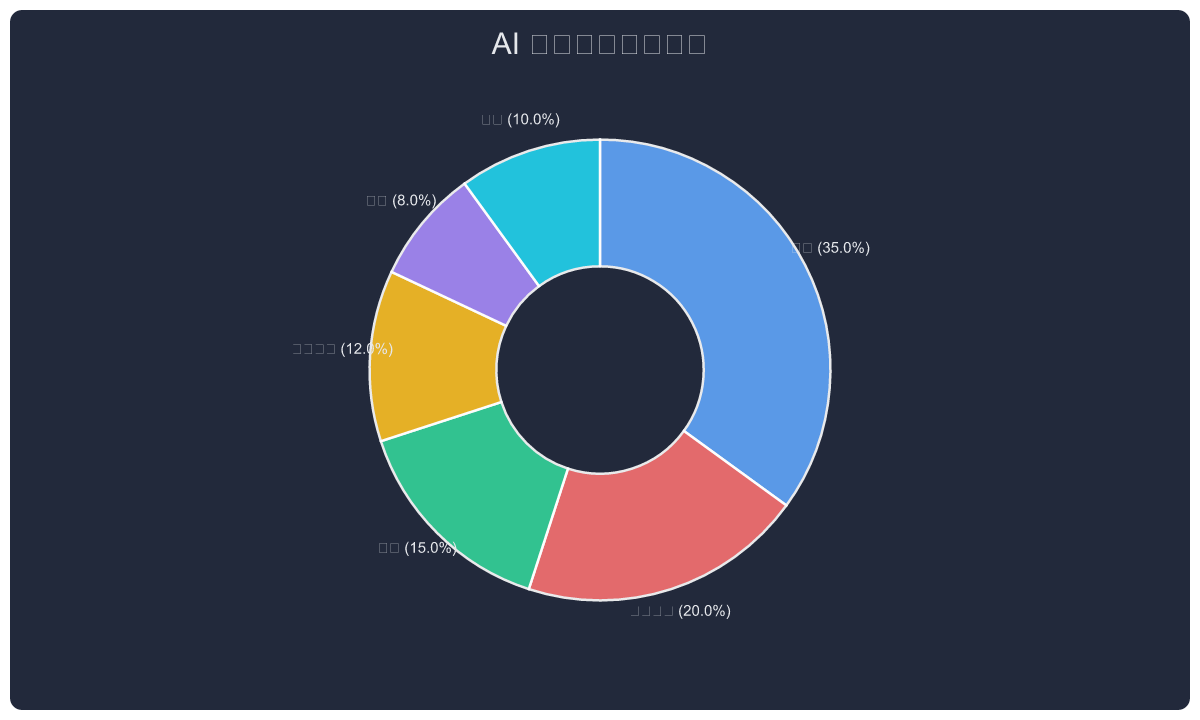
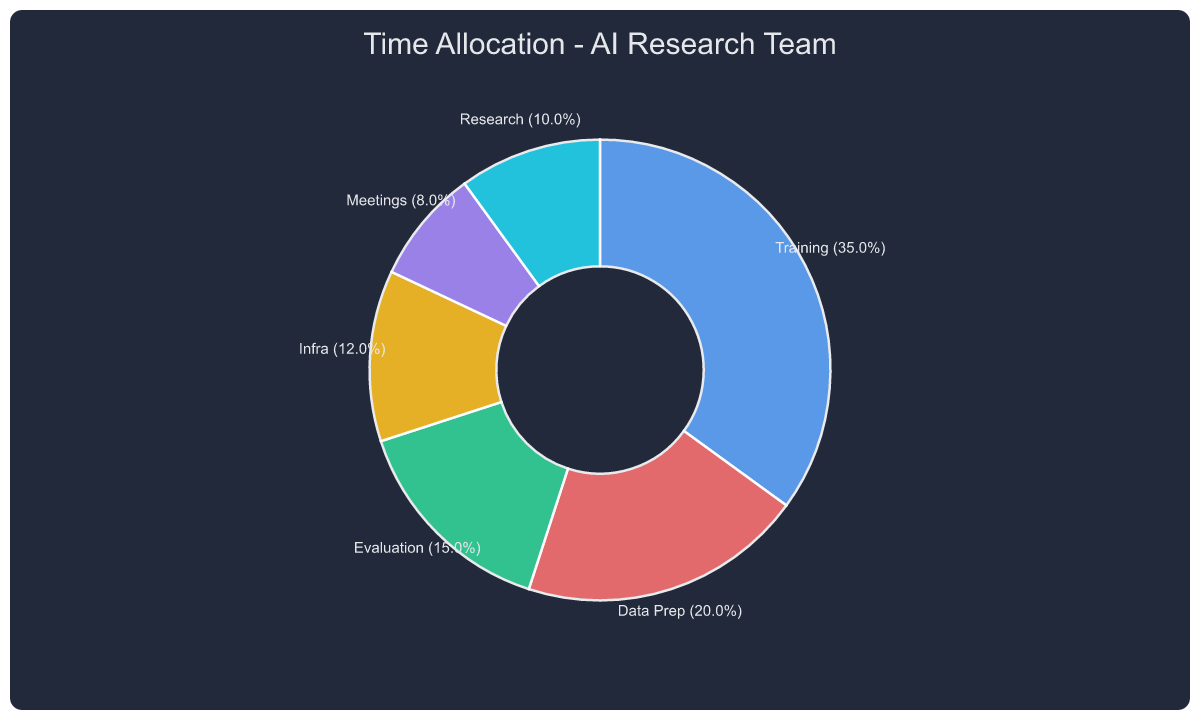
docs: dual showcase — EN titles for README, CN titles for README_CN
- docs/showcase/*.png: English titles (for README.md)
- docs/showcase/cn/*.png: Chinese titles (for README_CN.md)
- Fixed CJK rendering: font-family sans-serif + resvg sansSerifFamily=Heiti SC

diff --git a/src/render.ts b/src/render.ts
@@ -73,14 +73,16 @@ let fontCache: Uint8Array[] | null = null;
 async function loadFonts(env: Env): Promise<Uint8Array[]> {
   if (fontCache) return fontCache;
   const kv = env.SHORT_LINKS;
-  const [arialBuf, heitiBuf] = await Promise.all([
-    kv.get("font:arial-sans", "arrayBuffer"),
-    kv.get("font:heiti-sc-gb2312", "arrayBuffer"),
-  ]);
-  if (!arialBuf || !heitiBuf) {
-    throw new Error("Fonts not found in KV — upload font:arial-sans and font:heiti-sc-gb2312");
+  const heitiBuf = await kv.get("font:heiti-sc-gb2312", "arrayBuffer");
+  const arialBuf = await kv.get("font:arial-sans", "arrayBuffer");
+  const fonts: Uint8Array[] = [];
+  if (heitiBuf) fonts.push(new Uint8Array(heitiBuf));
+  if (arialBuf) fonts.push(new Uint8Array(arialBuf));
+  if (fonts.length === 0) {
+    throw new Error(`No fonts loaded from KV (heiti=${heitiBuf ? heitiBuf.byteLength : 'null'}, arial=${arialBuf ? arialBuf.byteLength : 'null'})`);
   }
-  fontCache = [new Uint8Array(arialBuf), new Uint8Array(heitiBuf)];
+  console.log(`Fonts loaded: heiti=${heitiBuf ? heitiBuf.byteLength : 'null'}, arial=${arialBuf ? arialBuf.byteLength : 'null'}, total=${fonts.length}`);
+  fontCache = fonts;
   return fontCache;
 }
 
@@ -995,8 +997,9 @@ export async function renderPngBase64(svg: string, env: Env): Promise<string> {
     background: "transparent",
     font: {
       fontBuffers,
-      defaultFontFamily: "Arial",
-      sansSerifFamily: "Arial",
+      defaultFontFamily: "Heiti SC",
+      sansSerifFamily: "Heiti SC",
+      serifFamily: "Heiti SC",
       defaultFontSize: DEFAULT_FONT_SIZE,
     },
   });
@@ -1013,8 +1016,9 @@ export async function renderPngResponse(svg: string, env: Env): Promise<Response
     background: "transparent",
     font: {
       fontBuffers,
-      defaultFontFamily: "Arial",
-      sansSerifFamily: "Arial",
+      defaultFontFamily: "Heiti SC",
+      sansSerifFamily: "Heiti SC",
+      serifFamily: "Heiti SC",
       defaultFontSize: DEFAULT_FONT_SIZE,
     },
   });

diff --git a/src/constants.ts b/src/constants.ts
@@ -31,7 +31,7 @@ export const MAX_3D_POINTS = 32;
 export const MAX_3D_LINE_POINTS = 96;
 export const DEFAULT_WIDTH = 1200;
 export const DEFAULT_HEIGHT = 720;
-export const DEFAULT_FONT_FAMILY = "'Heiti SC', Arial, sans-serif";
+export const DEFAULT_FONT_FAMILY = "sans-serif";
 export const DEFAULT_FONT_SIZE = 20;
 export const DEFAULT_BG = "safe-dark";
 export const DEFAULT_AXIS = "#111827";

diff --git a/README_CN.md b/README_CN.md
@@ -12,7 +12,7 @@
 
 sin、cos 及其叠加——自动检测 π 轴模式，y 轴 trig 专用刻度 `[-1, -0.5, 0, 0.5, 1]`，图例自动外置。
 
-![三角函数组合](docs/showcase/trig_composition.png)
+![三角函数组合](docs/showcase/cn/trig_composition.png)
 
 ```json
 {"tool": "plot_multi", "arguments": {
@@ -29,7 +29,7 @@ sin、cos 及其叠加——自动检测 π 轴模式，y 轴 trig 专用刻度 
 
 逐级叠加奇次谐波逼近方波。4 条曲线，自动 π 轴。
 
-![傅里叶逼近](docs/showcase/fourier_approx.png)
+![傅里叶逼近](docs/showcase/cn/fourier_approx.png)
 
 ```json
 {"tool": "plot_multi", "arguments": {
@@ -46,7 +46,7 @@ sin、cos 及其叠加——自动检测 π 轴模式，y 轴 trig 专用刻度 
 
 自动检测渐近线断点——无尖刺、无连接 ±∞ 的垂直线。引擎检测符号翻转 + 大 Δy 后自动断开路径。
 
-![tan 不连续](docs/showcase/tan_discontinuity.png)
+![tan 不连续](docs/showcase/cn/tan_discontinuity.png)
 
 ```json
 {"tool": "plot_png_link", "arguments": {
@@ -62,7 +62,7 @@ sin、cos 及其叠加——自动检测 π 轴模式，y 轴 trig 专用刻度 
 
 经典信号处理函数，x=0 处的可去奇点自动处理。
 
-![sinc 函数](docs/showcase/sinc_function.png)
+![sinc 函数](docs/showcase/cn/sinc_function.png)
 
 ```json
 {"tool": "plot_png_link", "arguments": {
@@ -78,7 +78,7 @@ sin、cos 及其叠加——自动检测 π 轴模式，y 轴 trig 专用刻度 
 
 x = ±1 处的垂直渐近线标注。引擎正确渲染极点间断，无伪影尖刺。
 
-![有理函数渐近线](docs/showcase/rational_asymptotes.png)
+![有理函数渐近线](docs/showcase/cn/rational_asymptotes.png)
 
 ```json
 {"tool": "plot_png_link", "arguments": {
@@ -98,7 +98,7 @@ x = ±1 处的垂直渐近线标注。引擎正确渲染极点间断，无伪影
 
 指数衰减 × 三角函数——自动规整刻度，15 个单位宽度内平滑渲染。
 
-![阻尼振荡](docs/showcase/damped_oscillation.png)
+![阻尼振荡](docs/showcase/cn/damped_oscillation.png)
 
 ```json
 {"tool": "plot_png_link", "arguments": {
@@ -114,7 +114,7 @@ x = ±1 处的垂直渐近线标注。引擎正确渲染极点间断，无伪影
 
 绝对值组合——非平凡波形与符号变化。
 
-![整流乘积](docs/showcase/absolute_value.png)
+![整流乘积](docs/showcase/cn/absolute_value.png)
 
 ```json
 {"tool": "plot_png_link", "arguments": {
@@ -130,7 +130,7 @@ x = ±1 处的垂直渐近线标注。引擎正确渲染极点间断，无伪影
 
 三个不同均值和方差的高斯分布——正态分布渲染。
 
-![高斯混合](docs/showcase/gaussian_mixture.png)
+![高斯混合](docs/showcase/cn/gaussian_mixture.png)
 
 ```json
 {"tool": "plot_multi", "arguments": {
@@ -147,7 +147,7 @@ x = ±1 处的垂直渐近线标注。引擎正确渲染极点间断，无伪影
 
 区域着色、点标记、垂直线、文字标签——四种标注类型一图打尽。
 
-![标注峰值](docs/showcase/annotated_peaks.png)
+![标注峰值](docs/showcase/cn/annotated_peaks.png)
 
 ```json
 {"tool": "plot_png_link", "arguments": {
@@ -170,7 +170,7 @@ x = ±1 处的垂直渐近线标注。引擎正确渲染极点间断，无伪影
 
 预测 vs 实际 vs 目标——散点图上非对称误差条，图例外置不遮挡数据。
 
-![业务误差条](docs/showcase/business_error_bars.png)
+![业务误差条](docs/showcase/cn/business_error_bars.png)
 
 ```json
 {"tool": "plot_series", "arguments": {
@@ -190,7 +190,7 @@ x = ±1 处的垂直渐近线标注。引擎正确渲染极点间断，无伪影
 
 3 个模型 × 4 项测试——每根柱子带独立误差条。
 
-![分组柱状](docs/showcase/grouped_bars.png)
+![分组柱状](docs/showcase/cn/grouped_bars.png)
 
 ```json
 {"tool": "plot_series", "arguments": {
@@ -211,7 +211,7 @@ x = ±1 处的垂直渐近线标注。引擎正确渲染极点间断，无伪影
 
 云成本分解——计算、存储、网络按月堆叠。
 
-![堆叠柱状](docs/showcase/stacked_bars.png)
+![堆叠柱状](docs/showcase/cn/stacked_bars.png)
 
 ```json
 {"tool": "plot_series", "arguments": {
@@ -232,7 +232,7 @@ x = ±1 处的垂直渐近线标注。引擎正确渲染极点间断，无伪影
 
 团队时间分配——环形饼图 + 百分比标签。
 
-![饼图](docs/showcase/pie_chart.png)
+![饼图](docs/showcase/cn/pie_chart.png)
 
 ```json
 {"tool": "plot_series", "arguments": {
@@ -247,7 +247,7 @@ x = ±1 处的垂直渐近线标注。引擎正确渲染极点间断，无伪影
 
 响应延迟分布——自动分箱，柱顶显示频次。
 
-![直方图](docs/showcase/histogram.png)
+![直方图](docs/showcase/cn/histogram.png)
 
 ```json
 {"tool": "plot_series", "arguments": {
@@ -263,7 +263,7 @@ x = ±1 处的垂直渐近线标注。引擎正确渲染极点间断，无伪影
 
 模型精度对比——中位数、四分位、须线、离群值。
 
-![箱线图](docs/showcase/box_plot.png)
+![箱线图](docs/showcase/cn/box_plot.png)
 
 ```json
 {"tool": "plot_series", "arguments": {
@@ -283,7 +283,7 @@ x = ±1 处的垂直渐近线标注。引擎正确渲染极点间断，无伪影
 
 训练损失 10 轮——y 轴自动切换对数刻度格式。
 
-![对数坐标](docs/showcase/log_scale.png)
+![对数坐标](docs/showcase/cn/log_scale.png)
 
 ```json
 {"tool": "plot_series", "arguments": {
@@ -300,7 +300,7 @@ x = ±1 处的垂直渐近线标注。引擎正确渲染极点间断，无伪影
 
 实验测量数据，上下不确定度不同——`error: { plus: [...], minus: [...] }`。
 
-![非对称误差](docs/showcase/scatter_asymmetric.png)
+![非对称误差](docs/showcase/cn/scatter_asymmetric.png)
 
 ```json
 {"tool": "plot_series", "arguments": {
@@ -316,7 +316,7 @@ x = ±1 处的垂直渐近线标注。引擎正确渲染极点间断，无伪影
 
 同一组噪声数据的三种视角：原始散点、平滑线（窗口=3）、min-max 归一化。
 
-![变换管线](docs/showcase/transform_pipeline.png)
+![变换管线](docs/showcase/cn/transform_pipeline.png)
 
 ```json
 {"tool": "plot_series", "arguments": {
@@ -336,7 +336,7 @@ x = ±1 处的垂直渐近线标注。引擎正确渲染极点间断，无伪影
 
 四种不同图表类型——折线、散点、函数——共享图例外置。
 
-![子图网格](docs/showcase/subplot_2x2.png)
+![子图网格](docs/showcase/cn/subplot_2x2.png)
 
 ```json
 {"tool": "multi_plot", "arguments": {
@@ -357,7 +357,7 @@ x = ±1 处的垂直渐近线标注。引擎正确渲染极点间断，无伪影
 
 内置教学模块：积分区域着色、公式、上下限标注。
 
-![定积分教学](docs/showcase/teaching_integral.png)
+![定积分教学](docs/showcase/cn/teaching_integral.png)
 
 ```json
 {"tool": "teaching", "arguments": {
